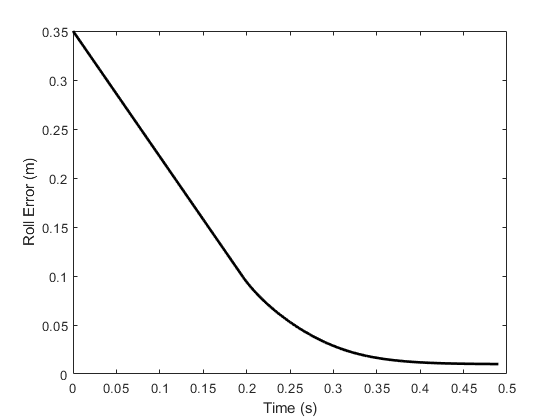
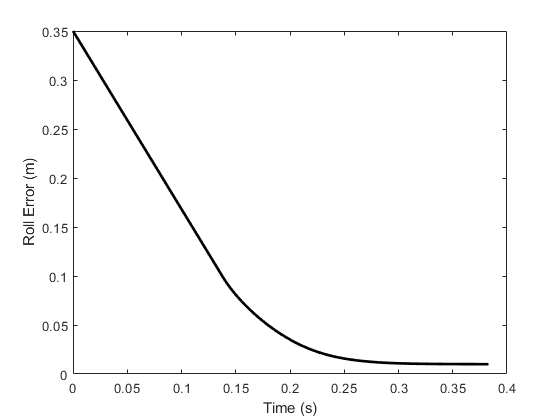
Fixed saturation... I need to stop working on this

diff --git a/main.m b/main.m
@@ -3,14 +3,14 @@ addpath(genpath('C:\Users\srd2\Code\nonCUI_bulldozer_blade_control\controllers')
 addpath(genpath('C:\Users\srd2\Code\nonCUI_bulldozer_blade_control\helper_functions'));
 
 % load in params
-soil = 1;           % select the soil paramters (0 compact, 1 loose)
+soil = 0;           % select the soil paramters (0 compact, 1 loose)
 run("parameters.m") % run file with params
 
 % testing varaibles
-desired_abg = [-0.35, 0, 0];  % [roll (rad.), control pitch (1) or not (0), yaw (rad.)]
-surface_abg = [0.35, 0, 0]; % the roll, pitch, yaw of the surface (radians)
+desired_abg = [0, 1, 0];  % [roll (rad.), control pitch (1) or not (0), yaw (rad.)]
+surface_abg = [0, 0, 0]; % the roll, pitch, yaw of the surface (radians)
 bld_ang     = [0; 0; 0]; % angle of blade about it local x, y, and z-axis
-bool_abg    = [1, 0, 0]; % plot roll, pitch, yaw [1 = True, 0 = False]
+bool_abg    = [0, 1, 0]; % plot roll, pitch, yaw [1 = True, 0 = False]
 
 % desired_abg = [-0.35, 0, 0];  % [roll (rad.), control pitch (1) or not (0), yaw (rad.)]
 % surface_abg = [0.35, 0, 0]; % the roll, pitch, yaw of the surface (radians)
